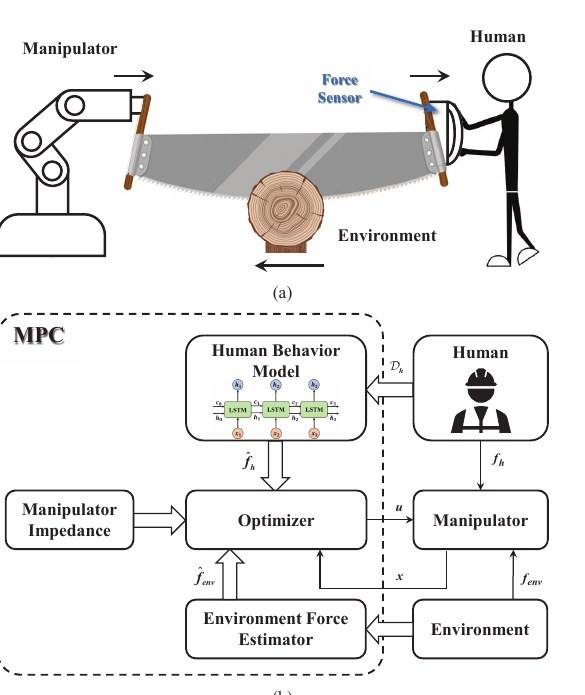
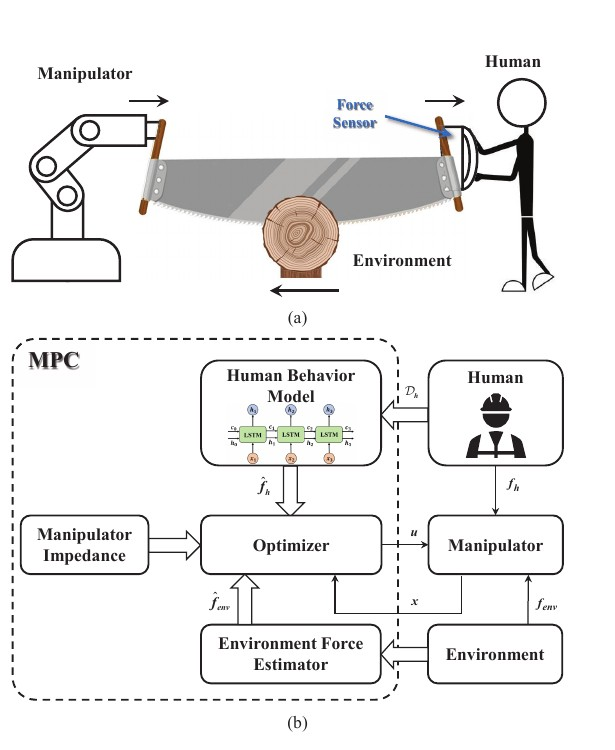
Align project and publication narratives

diff --git a/index.html b/index.html
@@ -26,7 +26,7 @@
     <meta name="twitter:image" content="https://zihaoli.dev/assets/og.svg" />
     <link rel="canonical" href="https://zihaoli.dev/" />
     <link rel="icon" href="/favicon.svg" type="image/svg+xml" />
-    <link rel="stylesheet" href="/styles.css?v=20260827-21" />
+    <link rel="stylesheet" href="/styles.css?v=20260827-22" />
   </head>
   <body>
     <header class="header">
@@ -184,12 +184,12 @@
       <section class="projects" id="projects">
         <div class="projects-head reveal">
           <p class="tag">Project history</p>
-          <h2>Three ways of teaching a robot to stay <em>with</em> the task.</h2>
+          <h2>Building the conditions for robots to work <em>together.</em></h2>
           <p>
-            My projects move from coordinating coupled bodies, to preserving
-            evidence across time, to giving a human better physical feedback.
-            The common thread is simple: intelligence is measured by what a
-            robot helps the whole interaction do next.
+            My research moves across coupled manipulation, long-horizon memory,
+            and force-aware teleoperation. Together, these projects support my
+            central claim: capable agents become a capable team only when they
+            can read how each action changes what the others can do next.
           </p>
         </div>
         <div class="project-list">
@@ -253,11 +253,11 @@
       <section class="publications" id="publications">
         <div class="publications-head reveal">
           <p class="tag">Selected works</p>
-          <h2><span>Six views of</span> physical intelligence</h2>
+          <h2><span>The evidence behind</span> the claim</h2>
           <p>
-            From coupled robot policies to human–robot–environment interaction,
-            these works follow one question: how can a machine use context,
-            contact, and structure to choose what should happen next?
+            These papers trace the same argument from different scales:
+            coordination is shaped by context, contact, and the structure of
+            the interaction—not by isolated action alone.
           </p>
         </div>
         <div class="pub-grid">
@@ -286,7 +286,7 @@
             href="https://arxiv.org/abs/2602.09888"
             target="_blank"
             rel="noreferrer"
-            ><span class="pub-visual"><img src="/assets/publications/tripilot-system.jpg?v=20260827-1" alt="TriPilot-FF whole-body teleoperation system with force feedback" loading="lazy" /></span>
+            ><span class="pub-visual"><img src="/assets/publications/tripilot-system.jpg?v=20260827-2" alt="TriPilot-FF whole-body teleoperation system with force feedback" loading="lazy" /></span>
             <span class="pub-meta">2026 · FORCE-AWARE TELEOPERATION</span>
             <h3>TriPilot-FF: Coordinated Whole-Body Teleoperation</h3>
             <p>Giving hands and feet a shared language for contact, reach, and motion.</p>
@@ -296,7 +296,7 @@
             href="https://arxiv.org/abs/2511.05052"
             target="_blank"
             rel="noreferrer"
-            ><span class="pub-visual"><img src="/assets/publications/tapom-planning.jpg?v=20260827-1" alt="TAPOM task-space topology-guided planning across cluttered scenes" loading="lazy" /></span>
+            ><span class="pub-visual"><img src="/assets/publications/tapom-planning.jpg?v=20260827-2" alt="TAPOM task-space topology-guided planning through a narrow passage" loading="lazy" /></span>
             <span class="pub-meta">2025 · MOTION PLANNING</span>
             <h3>TAPOM: Task-Space Topology-Guided Planning</h3>
             <p>Finding the passage before searching the high-dimensional motion space.</p>
@@ -316,7 +316,7 @@
             href="https://doi.org/10.1109/tie.2024.3447741"
             target="_blank"
             rel="noreferrer"
-            ><span class="pub-visual"><img src="/assets/publications/phrei-control.jpg?v=20260827-1" alt="Human, robot, and environment loop for operational behavior inference" loading="lazy" /></span>
+            ><span class="pub-visual"><img src="/assets/publications/phrei-control.jpg?v=20260827-2" alt="Complete human, robot, and environment control loop for operational behavior inference" loading="lazy" /></span>
             <span class="pub-meta">2025 · PHYSICAL HRI</span>
             <h3>Operational Behaviors Inference for Physical HREI</h3>
             <p>Predicting human intent while optimizing motion around real contact.</p>

diff --git a/styles.css b/styles.css
@@ -1148,9 +1148,11 @@ footer p span {
 }
 .pub-visual img {
   display: block;
+  margin: auto;
   width: 100%;
   height: 198px;
   object-fit: contain;
+  object-position: center center;
   mix-blend-mode: multiply;
   transition: transform 0.45s ease;
 }
